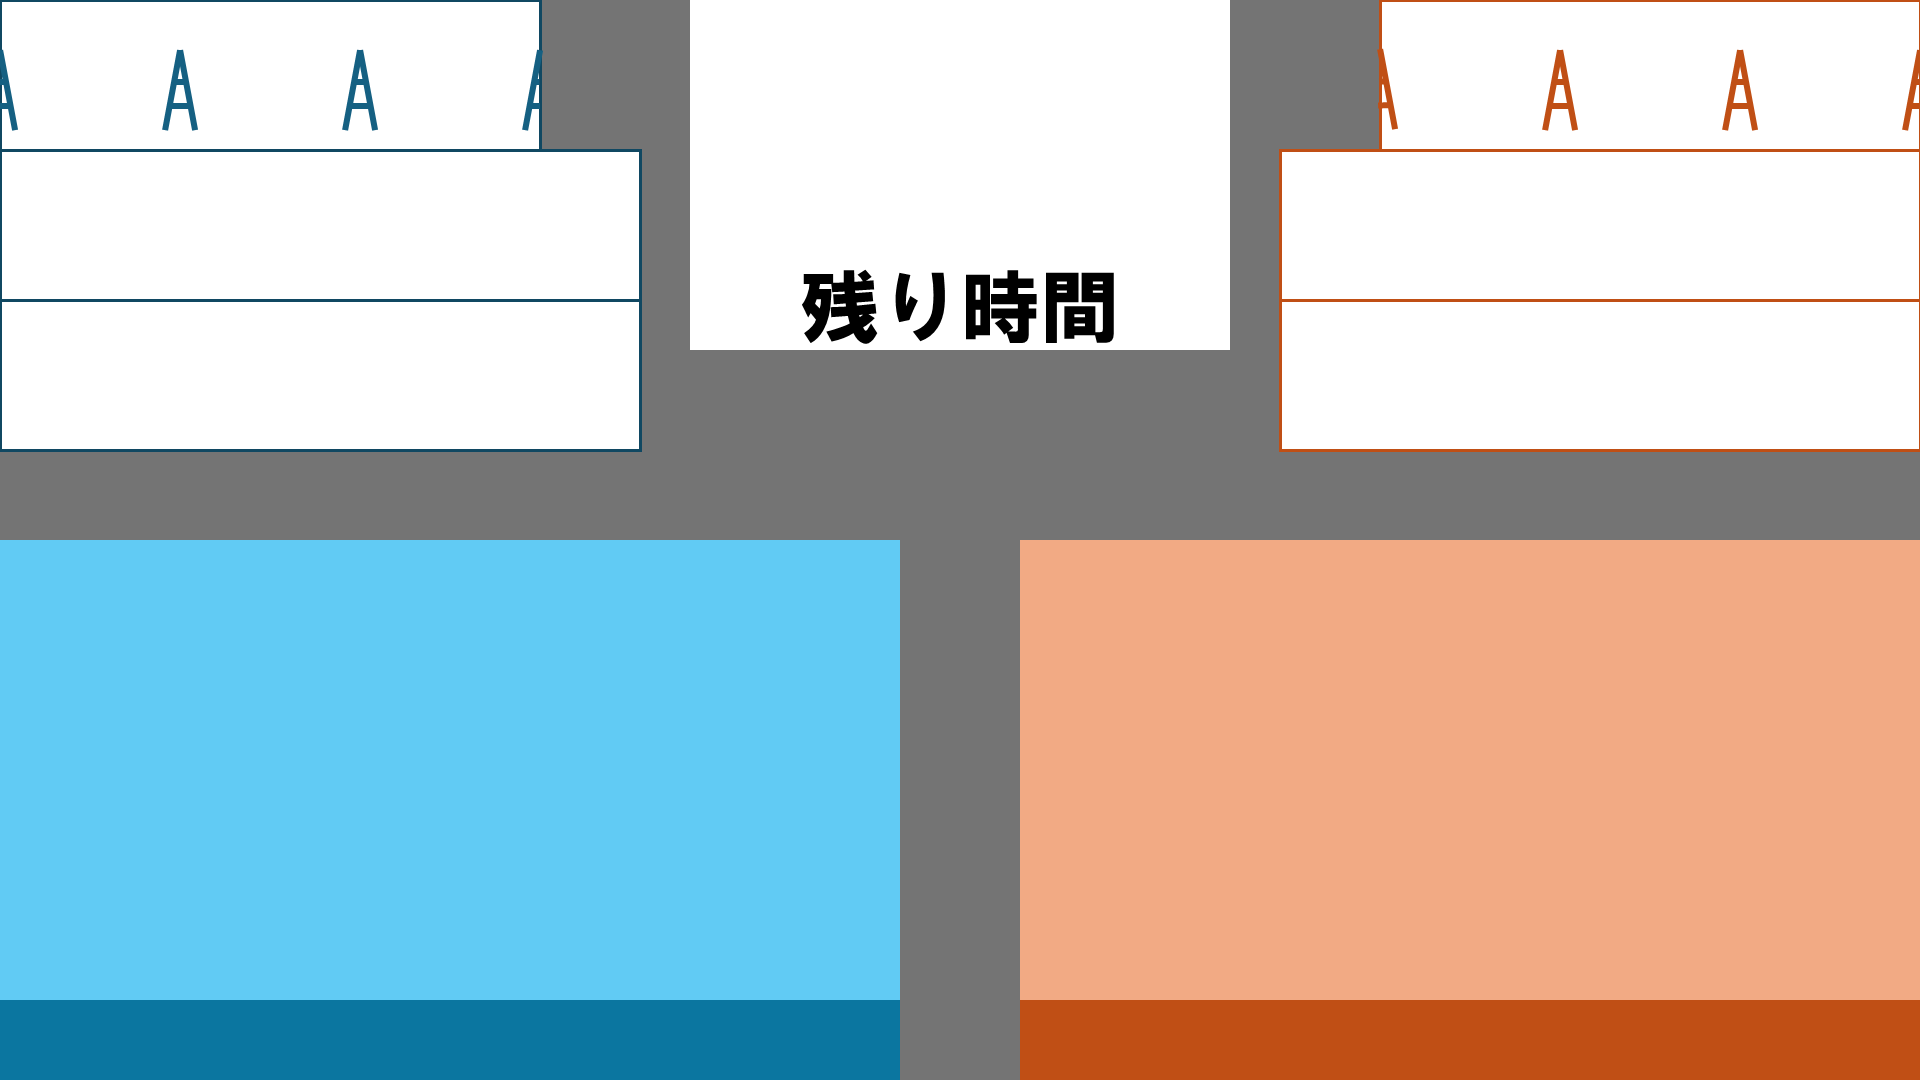
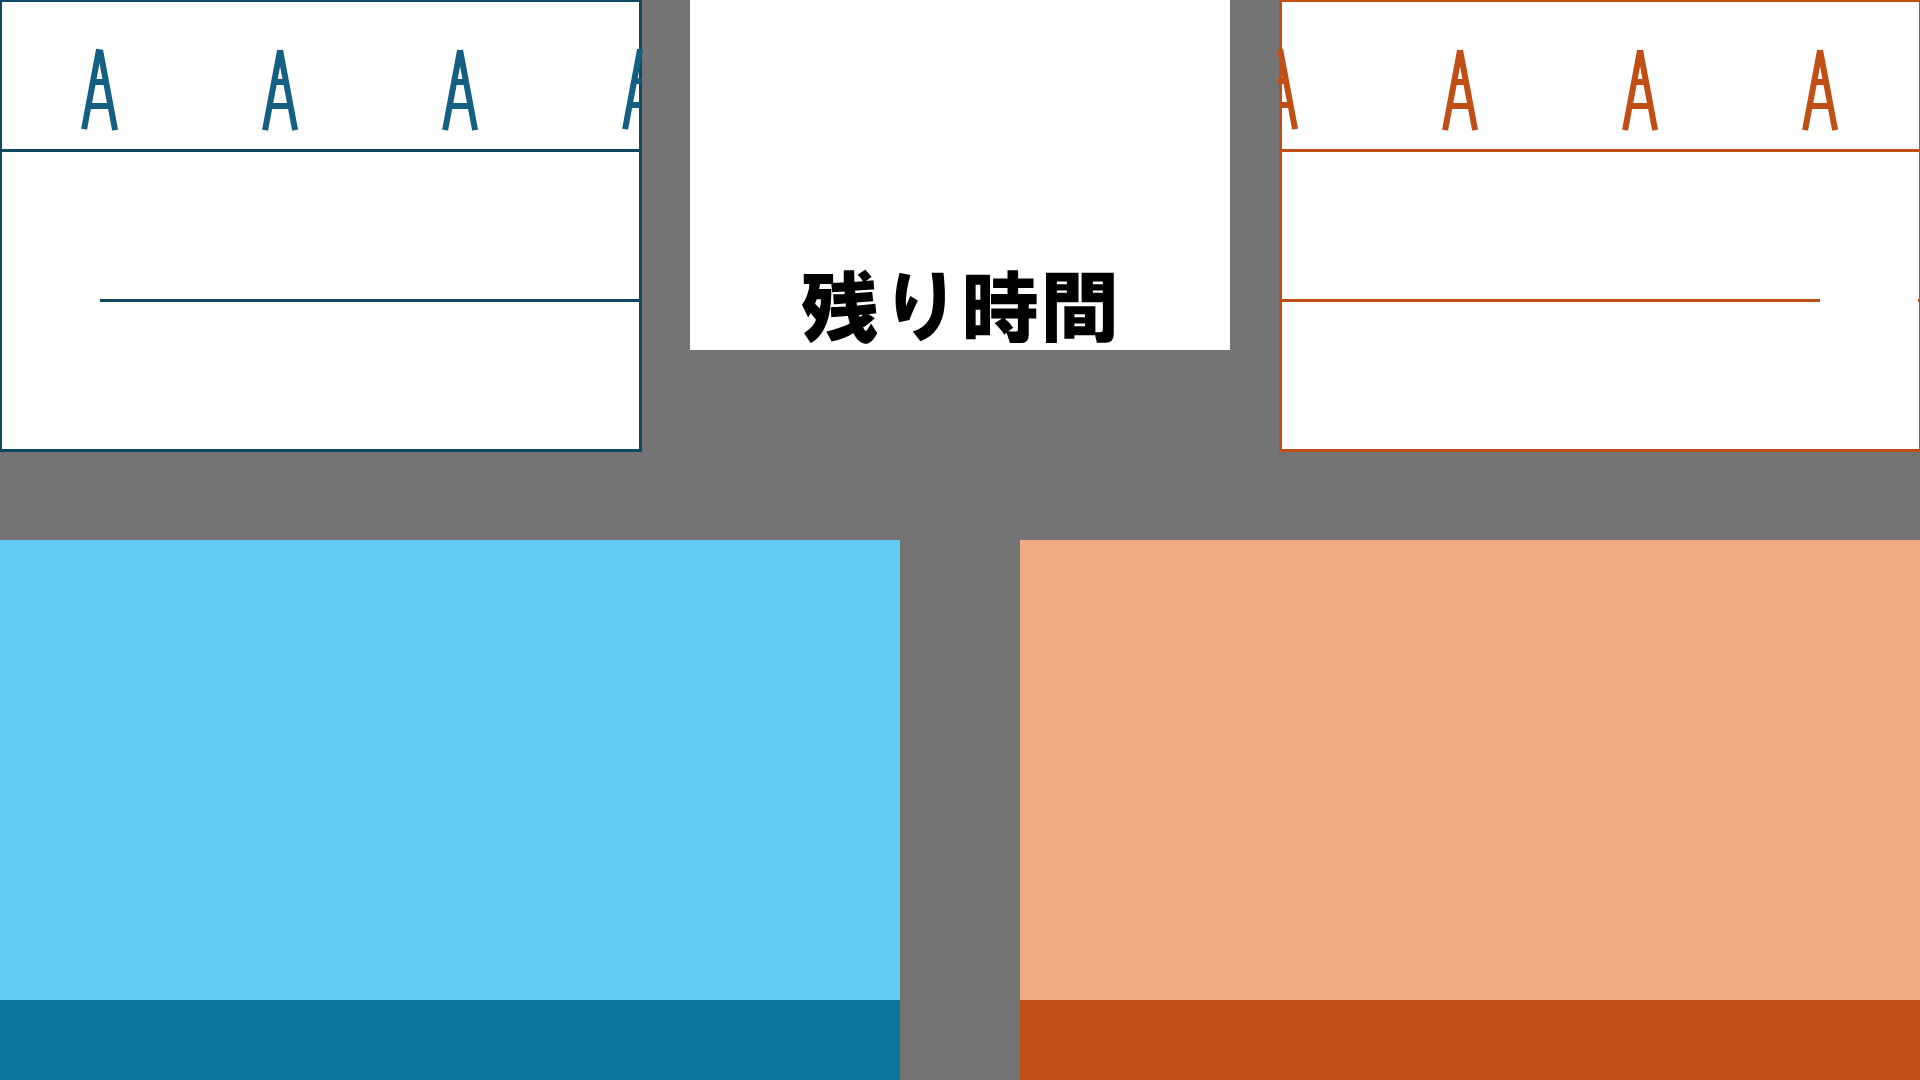
悲しみの改修、おわり

Changed region(s): [[0.6562, 0.0, 1.0, 0.1528], [0.0, 0.0, 0.3438, 0.1528]]

diff --git a/f3rc2025/main.js b/f3rc2025/main.js
@@ -43,12 +43,12 @@ for (let i = 0; i < 2; i++) {
     for (let j = 0; j < 3; j++) {
         $team_dom[i].coal.push(document.getElementById(`coal_${lr[i]}${j}`));
     }
-    $team_dom[i].coal_hand = document.getElementById(`coal_hand_${lr[i]}`);
+    $team_dom[i].cable_hand = document.getElementById(`cable_hand_${lr[i]}`);
     $team_dom[i].oil = [];
     for (let j = 0; j < 3; j++) {
         $team_dom[i].oil.push(document.getElementById(`oil_${lr[i]}${j}`));
     }
-    $team_dom[i].oil_hand = document.getElementById(`oil_hand_${lr[i]}`);
+    $team_dom[i].fuel_hand = document.getElementById(`fuel_hand_${lr[i]}`);
     $team_dom[i].power_on = document.getElementById(`power_on_${lr[i]}`);
 
 }
@@ -88,9 +88,9 @@ function dataToDataDict(data) {
         data_dict.team_data[i] = {
             cable_num: +data.values[0][i],
             coal_num: +data.values[1][i],
-            coal_touched: +data.values[2][i] == 1,
+            cable_touched: +data.values[2][i] == 1,
             oil_num: +data.values[3][i],
-            oil_touched: +data.values[4][i] == 1,
+            fuel_touched: +data.values[4][i] == 1,
             power_on: +data.values[5][i] == 1,
             name: data.values[6][i]
         }
@@ -159,6 +159,13 @@ function renew_timer(timer_dict) {
     prev_timer_dict = timer_dict;
 }
 
+function renew_points(data_dict) {
+    // for (let i = 0; i < 2; i++) {
+    //     let point = 0;
+    //     if(data_dict.team_data[i].coal_touched)
+    // }
+}
+
 // チーム別の表示を更新する
 function renew_team_display(data_dict) {
     for (let i = 0; i < 2; i++) {
@@ -167,7 +174,7 @@ function renew_team_display(data_dict) {
             if (j < data_dict.team_data[i].cable_num) {
                 $team_dom[i].cable[j].style.opacity = "1.0";
             } else {
-                $team_dom[i].cable[j].style.opacity = "0.0";
+                $team_dom[i].cable[j].style.opacity = "0.2";
             }
         }
         // 石炭
@@ -175,28 +182,28 @@ function renew_team_display(data_dict) {
             if (j < data_dict.team_data[i].coal_num) {
                 $team_dom[i].coal[j].style.opacity = "1.0";
             } else {
-                $team_dom[i].coal[j].style.opacity = "0.0";
+                $team_dom[i].coal[j].style.opacity = "0.2";
             }
         }
-        // 石炭触れた
-        if (data_dict.team_data[i].coal_touched) {
-            $team_dom[i].coal_hand.style.opacity = "1.0";
+        // 送電線触れた
+        if (data_dict.team_data[i].cable_touched) {
+            $team_dom[i].cable_hand.style.opacity = "1.0";
         } else {
-            $team_dom[i].coal_hand.style.opacity = "0.0";
+            $team_dom[i].cable_hand.style.opacity = "0.2";
         }
         // 石油
         for (let j = 0; j < 3; j++) {
             if (j < data_dict.team_data[i].oil_num) {
                 $team_dom[i].oil[j].style.opacity = "1.0";
             } else {
-                $team_dom[i].oil[j].style.opacity = "0.0";
+                $team_dom[i].oil[j].style.opacity = "0.2";
             }
         }
-        // 石油触れた
-        if (data_dict.team_data[i].oil_touched) {
-            $team_dom[i].oil_hand.style.opacity = "1.0";
+        // 燃料触れた
+        if (data_dict.team_data[i].fuel_touched) {
+            $team_dom[i].fuel_hand.style.opacity = "1.0";
         } else {
-            $team_dom[i].oil_hand.style.opacity = "0.0";
+            $team_dom[i].fuel_hand.style.opacity = "0.2";
         }
         // Power On
         if (data_dict.team_data[i].power_on) {

diff --git a/f3rc2025/style.css b/f3rc2025/style.css
@@ -16,7 +16,17 @@
     height:150px;
     width:540px;
     top:0px;
+    left:100px;
+}
+#cableHandContainerLeft{
+    display:flex;
+    justify-content: left;
+    position:absolute;
+    height:150px;
+    width:100px;
+    top:0px;
     left:0px;
+    text-align: center;
 }
 #coalContainerLeft{
     display:flex;
@@ -25,17 +35,7 @@
     height:150px;
     width:540px;
     top:150px;
-    left:0px;
-}
-#coalHandContainerLeft{
-    display:flex;
-    justify-content: left;
-    position:absolute;
-    height:150px;
-    width:100px;
-    top:150px;
-    left:540px;
-    text-align: center;
+    left:100px;
 }
 #oilContainerLeft{
     display:flex;
@@ -44,16 +44,16 @@
     height:150px;
     width:540px;
     top:300px;
-    left:0px;
+    left:100px;
 }
-#oilHandContainerLeft{
+#fuelHandContainerLeft{
     display:flex;
     justify-content: left;
     position:absolute;
     height:150px;
     width:100px;
-    top:300px;
-    left:540px;
+    top:225px;
+    left:0px;
     text-align: center;
 }
 #cableContainerRight{
@@ -63,7 +63,17 @@
     height:150px;
     width:540px;
     top:0px;
-    left:1380px;
+    left:1280px;
+}
+#cableHandContainerRight{
+    display:flex;
+    justify-content: left;
+    position:absolute;
+    height:150px;
+    width:100px;
+    top:0px;
+    left:1820px;
+    text-align: center;
 }
 #coalContainerRight{
     display:flex;
@@ -72,17 +82,7 @@
     height:150px;
     width:540px;
     top:150px;
-    left:1380px;
-}
-#coalHandContainerRight{
-    display:flex;
-    justify-content: left;
-    position:absolute;
-    height:150px;
-    width:100px;
-    top:150px;
     left:1280px;
-    text-align: center;
 }
 #oilContainerRight{
     display:flex;
@@ -91,16 +91,16 @@
     height:150px;
     width:540px;
     top:300px;
-    left:1380px;
+    left:1280px;
 }
-#oilHandContainerRight{
+#fuelHandContainerRight{
     display:flex;
     justify-content: left;
     position:absolute;
     height:150px;
     width:100px;
-    top:300px;
-    left:1280px;
+    top:225px;
+    left:1820px;
     text-align: center;
 }
 #cableContainerLeft img, #coalContainerLeft img, #oilContainerLeft img,

diff --git a/f3rc2025/index.html b/f3rc2025/index.html
@@ -14,14 +14,14 @@
       <img src="img/cable.png" id="cable_l1" />
       <img src="img/cable.png" id="cable_l2" />
     </div>
+    <div id="cableHandContainerLeft">
+      <img src="img/hand.png" id="cable_hand_l" />
+    </div>
     <!-- 石炭左 -->
     <div id="coalContainerLeft">
       <img src="img/coal.png" id="coal_l0" />
       <img src="img/coal.png" id="coal_l1" />
       <img src="img/coal.png" id="coal_l2" />
-    </div>
-    <div id="coalHandContainerLeft">
-      <img src="img/hand.png" id="coal_hand_l" />
     </div>
     <!-- 石油左 -->
     <div id="oilContainerLeft">
@@ -29,8 +29,8 @@
       <img src="img/oil.png" id="oil_l1" />
       <img src="img/oil.png" id="oil_l2" />
     </div>
-    <div id="oilHandContainerLeft">
-      <img src="img/hand.png" id="oil_hand_l" />
+    <div id="fuelHandContainerLeft">
+      <img src="img/hand.png" id="fuel_hand_l" />
     </div>
 
     <div id="cableContainerRight" class="cable">
@@ -38,21 +38,21 @@
       <img src="img/cable.png" id="cable_r1" />
       <img src="img/cable.png" id="cable_r0" />
     </div>
+    <div id="cableHandContainerRight">
+      <img src="img/hand.png" id="cable_hand_r" />
+    </div>
     <div id="coalContainerRight">
       <img src="img/coal.png" id="coal_r2" />
       <img src="img/coal.png" id="coal_r1" />
       <img src="img/coal.png" id="coal_r0" />
-    </div>
-    <div id="coalHandContainerRight">
-      <img src="img/hand.png" id="coal_hand_r" />
     </div>
     <div id="oilContainerRight">
       <img src="img/oil.png" id="oil_r2" />
       <img src="img/oil.png" id="oil_r1" />
       <img src="img/oil.png" id="oil_r0" />
     </div>
-    <div id="oilHandContainerRight">
-      <img src="img/hand.png" id="oil_hand_r" />
+    <div id="fuelHandContainerRight">
+      <img src="img/hand.png" id="fuel_hand_r" />
     </div>
     <!-- </div> -->
     <!-- ポイント1 -->
